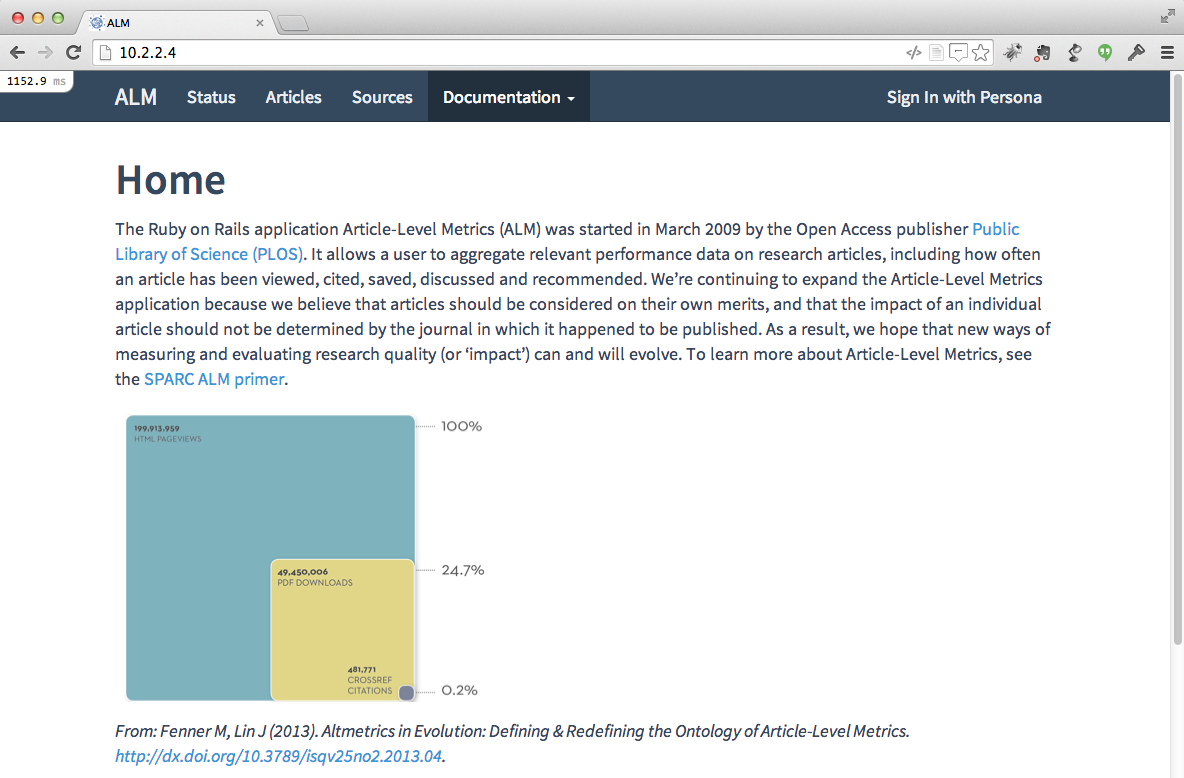
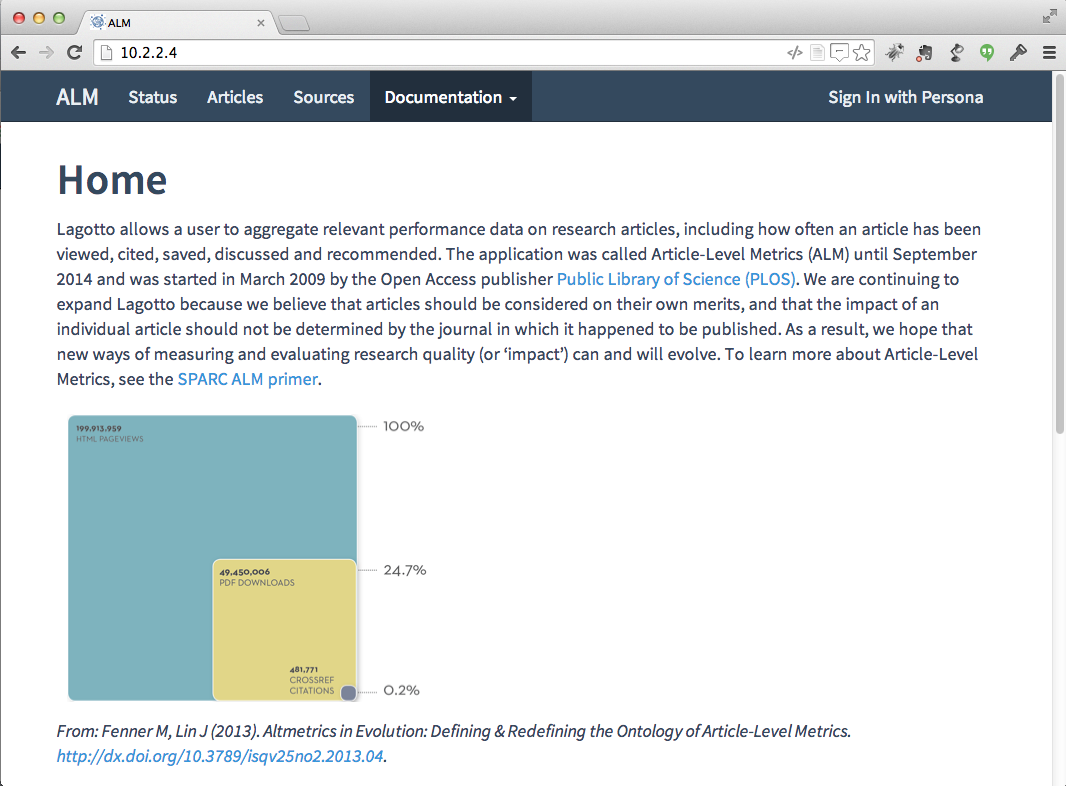
more renaming to lagotto

diff --git a/config/deploy.rb b/config/deploy.rb
@@ -1,14 +1,14 @@
 # config valid only for Capistrano 3.2
 lock '3.2.1'
 
-set :application, 'alm'
-set :repo_url, 'https://github.com/articlemetrics/alm.git'
+set :application, 'lagotto'
+set :repo_url, 'https://github.com/articlemetrics/lagotto.git'
 
 # Default branch is :master
 set :branch, 'master'
 
 # Default deploy_to directory is /var/www/my_app
-set :deploy_to, '/var/www/alm'
+set :deploy_to, '/var/www/lagotto'
 
 # Default value for :scm is :git
 # set :scm, :git

diff --git a/config/initializers/secret_token.rb b/config/initializers/secret_token.rb
@@ -4,4 +4,4 @@
 # If you change this key, all old signed cookies will become invalid!
 # Make sure the secret is at least 30 characters and all random,
 # no regular words or you'll be exposed to dictionary attacks.
-Alm::Application.config.secret_token = CONFIG[:secret_token]
+Lagotto::Application.config.secret_token = CONFIG[:secret_token]

diff --git a/spec/support/shared_contexts/rake.rb b/spec/support/shared_contexts/rake.rb
@@ -16,7 +16,7 @@ shared_context "rake" do
   before do
     Rake.application = rake
     # Rake.application.rake_require(task_path, [Rails.root.to_s], loaded_files_excluding_current_rake_file)
-    Alm::Application.load_tasks
+    Lagotto::Application.load_tasks
     Rake::Task.define_task(:environment)
   end
 end

diff --git a/config/routes.rb b/config/routes.rb
@@ -1,4 +1,4 @@
-Alm::Application.routes.draw do
+Lagotto::Application.routes.draw do
   mount JasmineRails::Engine => '/specs' if defined?(JasmineRails)
 
   devise_for :users, :controllers => { :omniauth_callbacks => "users/omniauth_callbacks", :registrations => "users/registrations" }

diff --git a/config/environments/development.rb b/config/environments/development.rb
@@ -1,6 +1,6 @@
 $stdout.sync = true
 
-Alm::Application.configure do
+Lagotto::Application.configure do
   # Settings specified here will take precedence over those in config/application.rb
 
   # In the development environment your application's code is reloaded on

diff --git a/config/environments/test.rb b/config/environments/test.rb
@@ -1,4 +1,4 @@
-Alm::Application.configure do
+Lagotto::Application.configure do
   # Settings specified here will take precedence over those in config/application.rb
 
   # The test environment is used exclusively to run your application's

diff --git a/config/environments/production.rb b/config/environments/production.rb
@@ -1,4 +1,4 @@
-Alm::Application.configure do
+Lagotto::Application.configure do
   # Settings specified here will take precedence over those in config/application.rb
 
   # Code is not reloaded between requests

diff --git a/config/initializers/session_store.rb b/config/initializers/session_store.rb
@@ -1,2 +1,2 @@
 # Be sure to restart your server when you modify this file.
-Alm::Application.config.session_store :cookie_store, key: '_alm'
+Lagotto::Application.config.session_store :cookie_store, key: '_alm'

diff --git a/config/environment.rb b/config/environment.rb
@@ -2,4 +2,4 @@
 require File.expand_path('../application', __FILE__)
 
 # Initialize the rails application
-Alm::Application.initialize!
+Lagotto::Application.initialize!

diff --git a/docs/faq.md b/docs/faq.md
@@ -3,17 +3,17 @@ layout: page
 title: "FAQ"
 ---
 
-Please add questions that are not listed here to the [Issue Tracker](https://github.com/articlemetrics/alm/issues).
+Please add questions that are not listed here to the [Issue Tracker](https://github.com/articlemetrics/lagotto/issues).
 
-### Where can I ask questions regarding the ALM application?
-Please create an issue in the [Issue Tracker](https://github.com/articlemetrics/alm/issues) or ask your question in the [PLOS API Developer Google Group](https://groups.google.com/forum/?fromgroups#!forum/plos-api-developers).
+### Where can I ask questions regarding Lagotto?
+Please create an issue in the [Issue Tracker](https://github.com/articlemetrics/lagotto/issues) or ask your question in the [PLOS API Developer Google Group](https://groups.google.com/forum/?fromgroups#!forum/plos-api-developers).
 
 ### Where do I find videos and presentations about ALM?
-Several videos, presentations and other information are available at the [PLOS ALM website](http://article-level-metrics.plos.org).
+Several videos, presentations and other information are available at the [community website](http://articlemetrics.github.io).
 
-### What organizations are using the ALM application?
+### What organizations are using Lagotto?
 
-* [Public Library of Science (PLOS)](http://article-level-metrics.plos.org/)
+* [Public Library of Science (PLOS)](http://articlemetrics.github.io/plos/)
 * [Copernicus Publications](http://publications.copernicus.org/services/article_level_metrics.html)
 * [Public Knowledge Project (PKP)](http://pkp.sfu.ca/pkp-launches-article-level-metrics-for-ojs-journals/)
 * [eLife](http://elifesciences.org/)
@@ -21,11 +21,11 @@ Several videos, presentations and other information are available at the [PLOS A
 Please contact us if you are using the ALM application and want your organization to be listed here.
 
 ### What other services provide Article-Level Metrics?
-Article-Level Metrics is a very dynamic area, as of January 2014 the following organizations also provide comprehensive ALM data:
+Article-Level Metrics is a very dynamic area, as of September 2014 the following organizations also provide comprehensive ALM data:
 
 * [altmetric.com](http://altmetric.com)
 * [ImpactStory](http://impactstory.org)
 * [Plum Analytics](http://www.plumanalytics.com)
 
-### Are there tools to interact with the ALM API?
-The [alm](http://ropensci.org/packages/alm.html) package for the R statistical language is provided by the [rOpenSci](http://ropensci.org/) project. Cameron Neylon has released [pyalm](https://github.com/articlemetrics/pyalm), an experimental Python wrapper for the ALM API. Both tools are Open Source software.
+### Are there tools to interact with the Lagotto API?
+The [alm](http://ropensci.org/packages/alm.html) package for the R statistical language is provided by the [rOpenSci](http://ropensci.org/) project. Cameron Neylon has released [pyalm](https://github.com/articlemetrics/pyalm), an experimental Python wrapper for the Lagotto API. Both tools are Open Source software.
